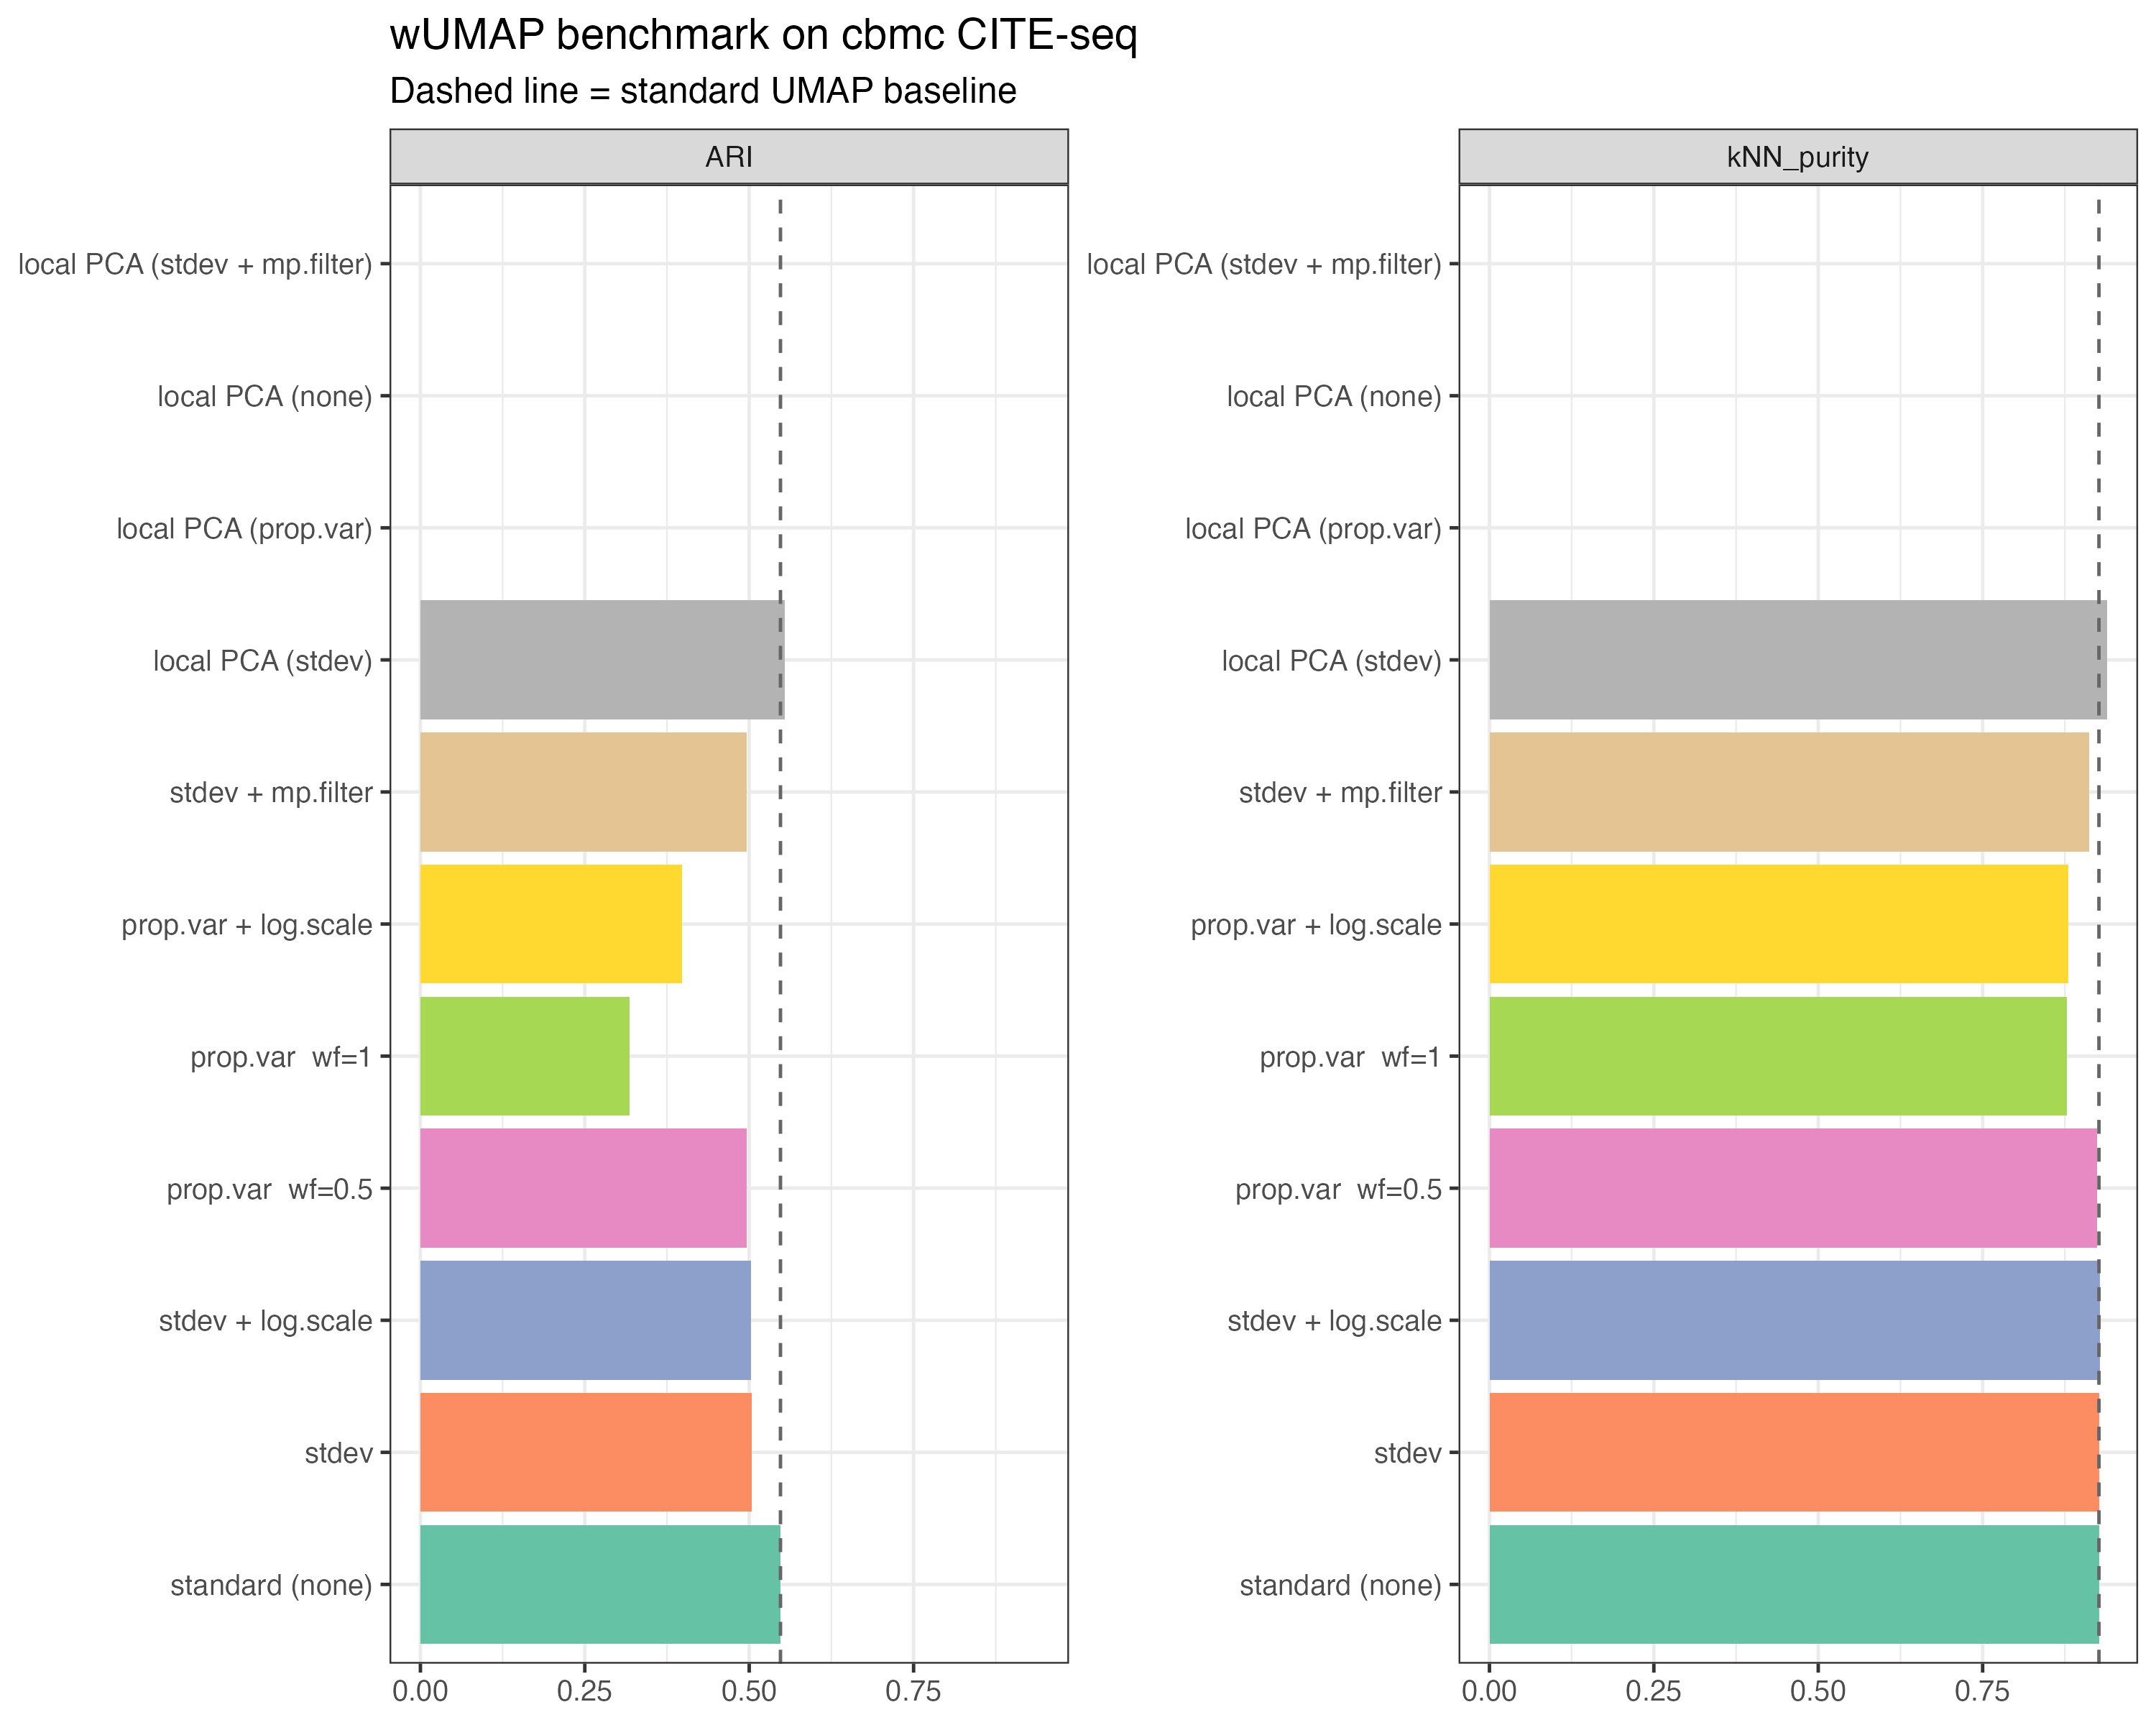
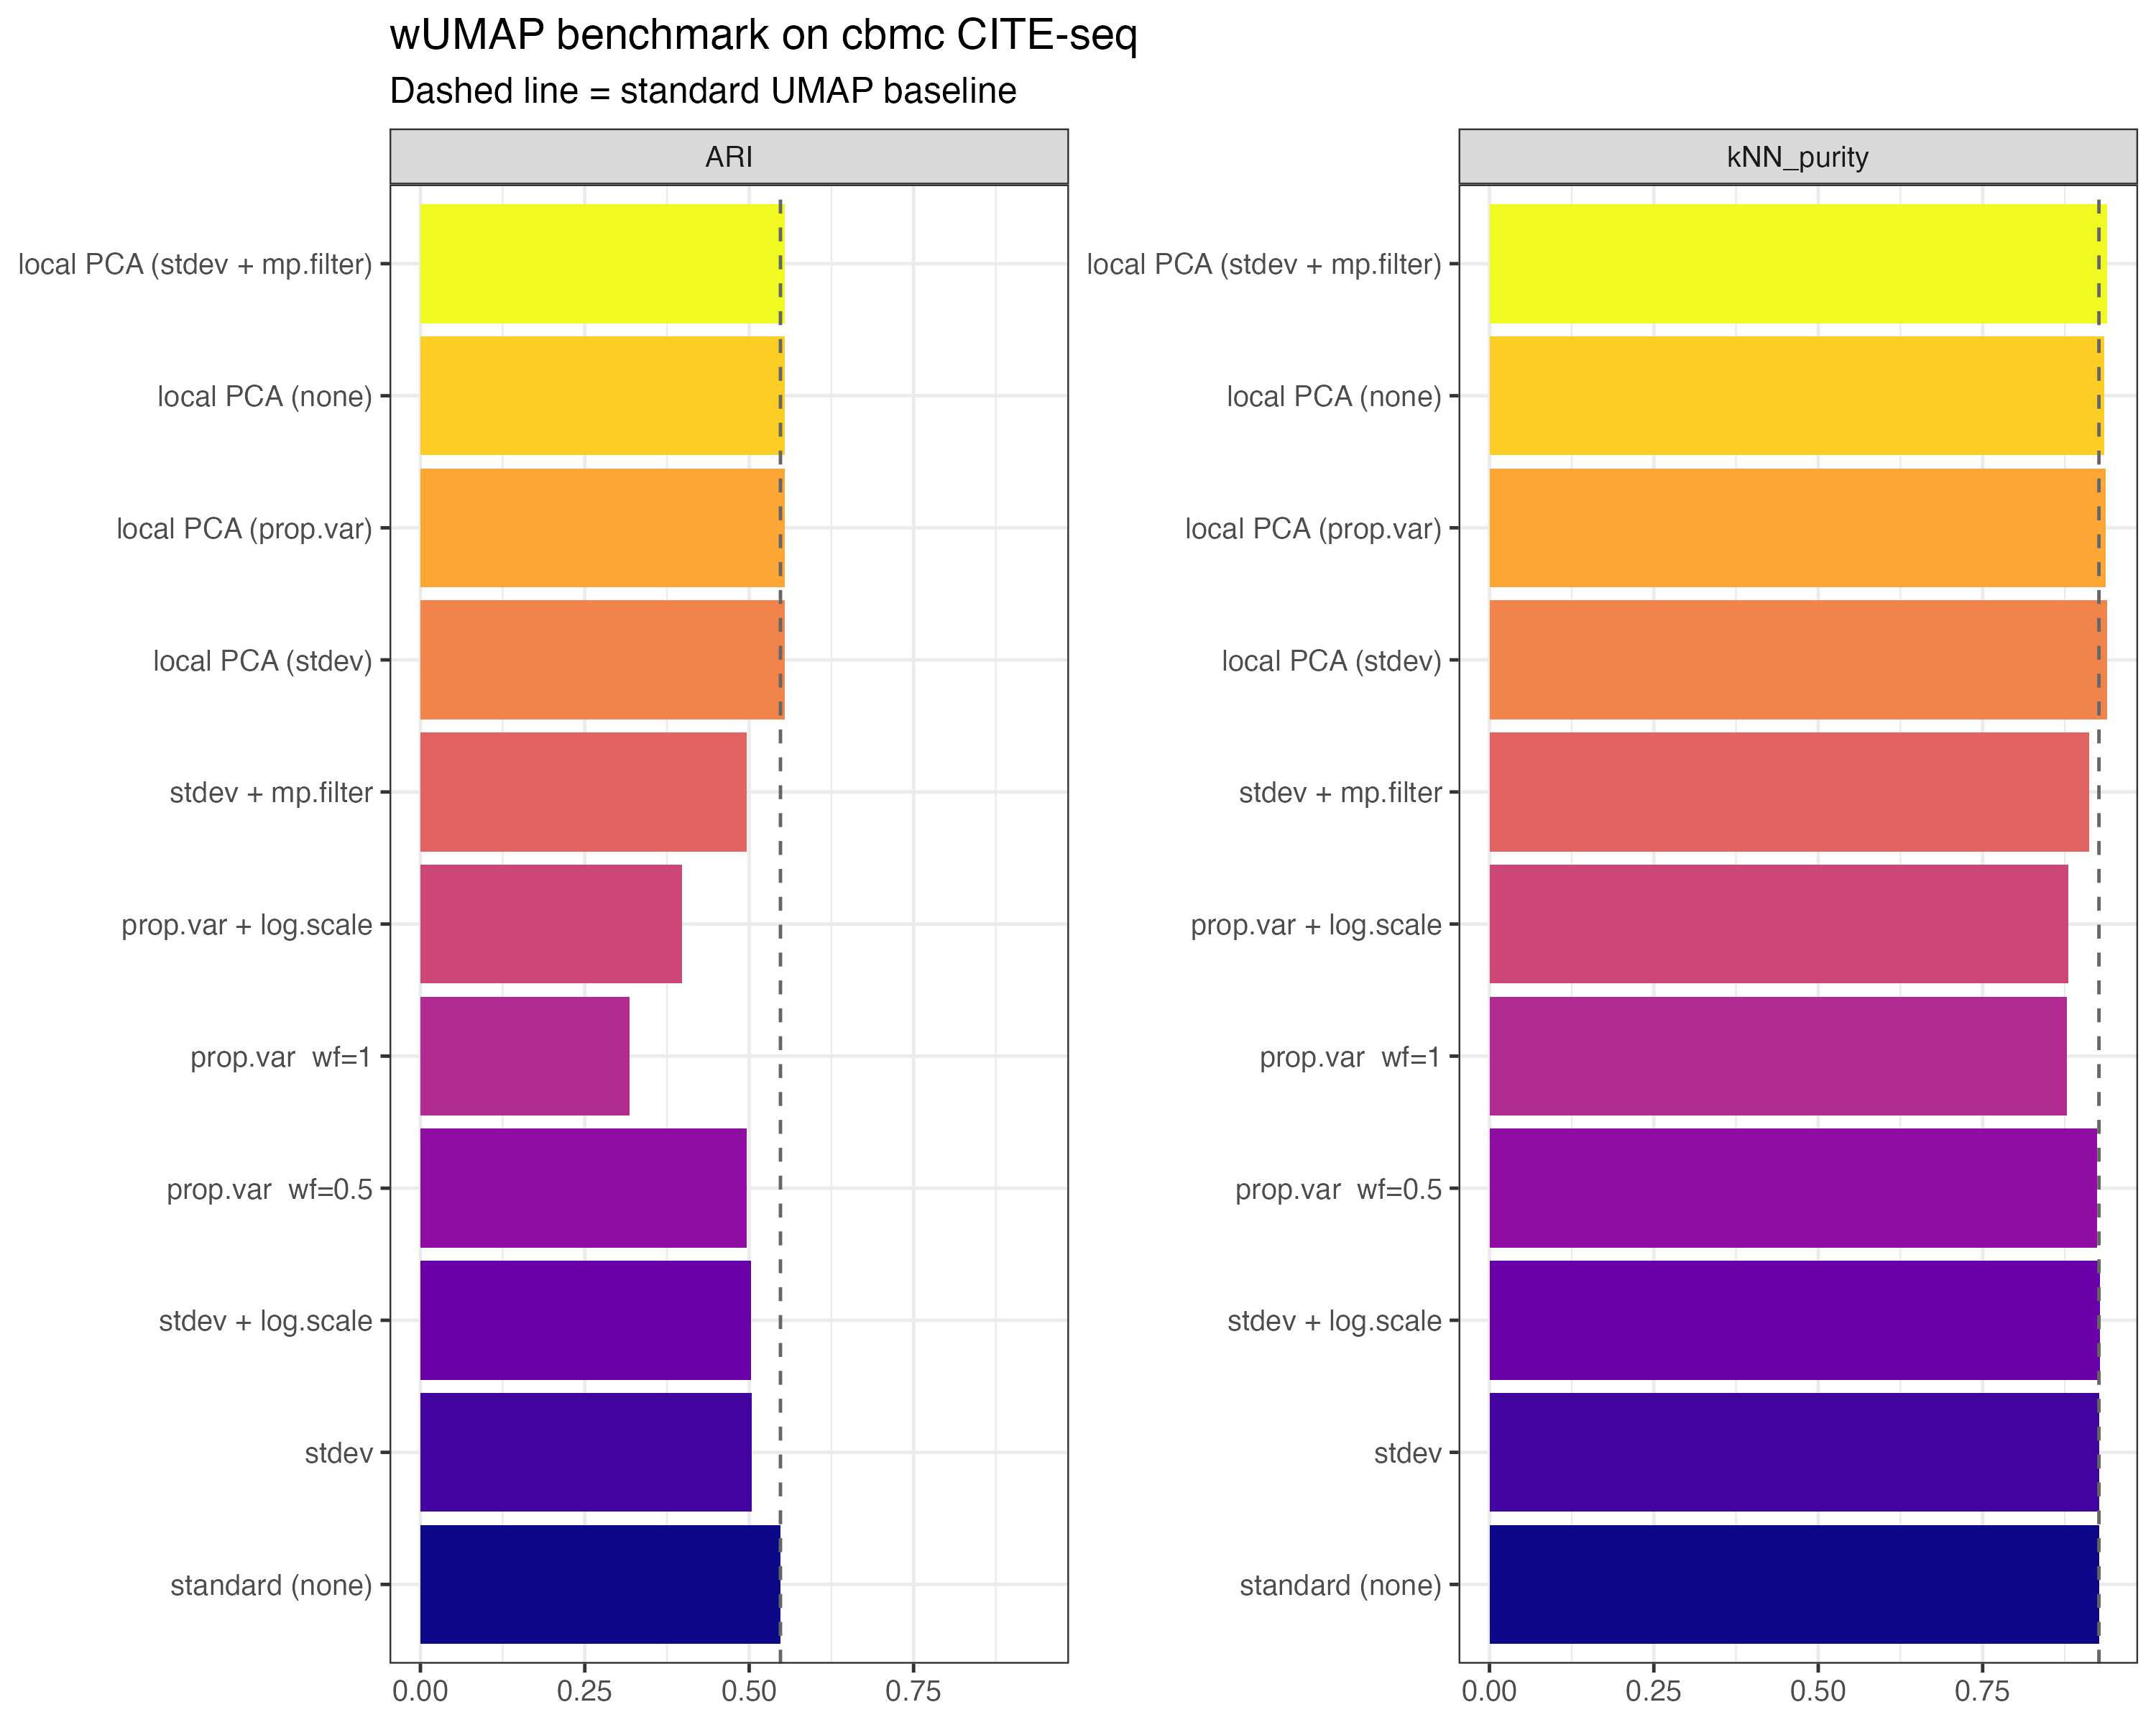
fixed graph

diff --git a/docs/articles/benchmark.html b/docs/articles/benchmark.html
@@ -761,7 +761,7 @@ parameter can be tuned in isolation.</p>
 <span>  <span class="fu"><a href="https://ggplot2.tidyverse.org/reference/geom_abline.html" class="external-link">geom_hline</a></span><span class="op">(</span>data <span class="op">=</span> <span class="va">baseline</span>, <span class="fu"><a href="https://ggplot2.tidyverse.org/reference/aes.html" class="external-link">aes</a></span><span class="op">(</span>yintercept <span class="op">=</span> <span class="va">Score</span><span class="op">)</span>,</span>
 <span>             linetype <span class="op">=</span> <span class="st">"dashed"</span>, colour <span class="op">=</span> <span class="st">"grey40"</span><span class="op">)</span> <span class="op">+</span></span>
 <span>  <span class="fu"><a href="https://ggplot2.tidyverse.org/reference/facet_wrap.html" class="external-link">facet_wrap</a></span><span class="op">(</span><span class="op">~</span><span class="va">Metric</span>, scales <span class="op">=</span> <span class="st">"free_y"</span><span class="op">)</span> <span class="op">+</span></span>
-<span>  <span class="fu"><a href="https://ggplot2.tidyverse.org/reference/scale_brewer.html" class="external-link">scale_fill_brewer</a></span><span class="op">(</span>palette <span class="op">=</span> <span class="st">"Set2"</span><span class="op">)</span> <span class="op">+</span></span>
+<span>  <span class="fu"><a href="https://ggplot2.tidyverse.org/reference/scale_viridis.html" class="external-link">scale_fill_viridis_d</a></span><span class="op">(</span>option <span class="op">=</span> <span class="st">"C"</span><span class="op">)</span> <span class="op">+</span></span>
 <span>  <span class="fu"><a href="https://ggplot2.tidyverse.org/reference/coord_flip.html" class="external-link">coord_flip</a></span><span class="op">(</span><span class="op">)</span> <span class="op">+</span></span>
 <span>  <span class="fu"><a href="https://ggplot2.tidyverse.org/reference/labs.html" class="external-link">labs</a></span><span class="op">(</span>x <span class="op">=</span> <span class="cn">NULL</span>, y <span class="op">=</span> <span class="cn">NULL</span>,</span>
 <span>       title <span class="op">=</span> <span class="st">"wUMAP benchmark on cbmc CITE-seq"</span>,</span>
@@ -1042,21 +1042,21 @@ contains a developmental trajectory across worm embryo stages.</p>
 <span>                          reduction.name <span class="op">=</span> <span class="st">"umap.none"</span>,</span>
 <span>                          seed.use <span class="op">=</span> <span class="fl">42</span><span class="op">)</span></span>
 <span><span class="co">#&gt; [wUMAP] Using weighted embedding 'wt.none.pca' (6188 cells x 30 dims, k = 30)</span></span>
-<span><span class="co">#&gt; 10:31:05 UMAP embedding parameters a = 0.9922 b = 1.112</span></span>
-<span><span class="co">#&gt; 10:31:05 Read 6188 rows and found 30 numeric columns</span></span>
-<span><span class="co">#&gt; 10:31:05 Using Annoy for neighbor search, n_neighbors = 30</span></span>
-<span><span class="co">#&gt; 10:31:05 Building Annoy index with metric = euclidean, n_trees = 50</span></span>
+<span><span class="co">#&gt; 15:43:22 UMAP embedding parameters a = 0.9922 b = 1.112</span></span>
+<span><span class="co">#&gt; 15:43:22 Read 6188 rows and found 30 numeric columns</span></span>
+<span><span class="co">#&gt; 15:43:22 Using Annoy for neighbor search, n_neighbors = 30</span></span>
+<span><span class="co">#&gt; 15:43:22 Building Annoy index with metric = euclidean, n_trees = 50</span></span>
 <span><span class="co">#&gt; 0%   10   20   30   40   50   60   70   80   90   100%</span></span>
 <span><span class="co">#&gt; [----|----|----|----|----|----|----|----|----|----|</span></span>
 <span><span class="co">#&gt; **************************************************|</span></span>
-<span><span class="co">#&gt; 10:31:05 Writing NN index file to temp file /var/folders/b9/bldjd_1s567761v6zm1g7v380000gp/T//RtmpDOxCzM/file1287e8f5660d</span></span>
-<span><span class="co">#&gt; 10:31:05 Searching Annoy index using 4 threads, search_k = 3000</span></span>
-<span><span class="co">#&gt; 10:31:05 Annoy recall = 100%</span></span>
-<span><span class="co">#&gt; 10:31:05 Commencing smooth kNN distance calibration using 4 threads with target n_neighbors = 30</span></span>
-<span><span class="co">#&gt; 10:31:06 Initializing from normalized Laplacian + noise (using RSpectra)</span></span>
-<span><span class="co">#&gt; 10:31:06 Commencing optimization for 500 epochs, with 241652 positive edges</span></span>
-<span><span class="co">#&gt; 10:31:06 Using rng type: pcg</span></span>
-<span><span class="co">#&gt; 10:31:11 Optimization finished</span></span>
+<span><span class="co">#&gt; 15:43:22 Writing NN index file to temp file /var/folders/b9/bldjd_1s567761v6zm1g7v380000gp/T//RtmpgmqdmI/file16b1c67acde5c</span></span>
+<span><span class="co">#&gt; 15:43:22 Searching Annoy index using 4 threads, search_k = 3000</span></span>
+<span><span class="co">#&gt; 15:43:22 Annoy recall = 100%</span></span>
+<span><span class="co">#&gt; 15:43:22 Commencing smooth kNN distance calibration using 4 threads with target n_neighbors = 30</span></span>
+<span><span class="co">#&gt; 15:43:23 Initializing from normalized Laplacian + noise (using RSpectra)</span></span>
+<span><span class="co">#&gt; 15:43:23 Commencing optimization for 500 epochs, with 241652 positive edges</span></span>
+<span><span class="co">#&gt; 15:43:23 Using rng type: pcg</span></span>
+<span><span class="co">#&gt; 15:43:28 Optimization finished</span></span>
 <span><span class="co">#&gt; [wUMAP] Stored as reduction 'umap.none'. Access via Embeddings(object[['umap.none']]).</span></span></code></pre></div>
 </div>
 <div class="section level3">
@@ -1081,21 +1081,21 @@ contains a developmental trajectory across worm embryo stages.</p>
 <span>                          reduction.name <span class="op">=</span> <span class="st">"umap.stdev"</span>,</span>
 <span>                          seed.use <span class="op">=</span> <span class="fl">42</span><span class="op">)</span></span>
 <span><span class="co">#&gt; [wUMAP] Using weighted embedding 'wt.stdev.pca' (6188 cells x 30 dims, k = 30)</span></span>
-<span><span class="co">#&gt; 10:31:12 UMAP embedding parameters a = 0.9922 b = 1.112</span></span>
-<span><span class="co">#&gt; 10:31:12 Read 6188 rows and found 30 numeric columns</span></span>
-<span><span class="co">#&gt; 10:31:12 Using Annoy for neighbor search, n_neighbors = 30</span></span>
-<span><span class="co">#&gt; 10:31:12 Building Annoy index with metric = euclidean, n_trees = 50</span></span>
+<span><span class="co">#&gt; 15:43:29 UMAP embedding parameters a = 0.9922 b = 1.112</span></span>
+<span><span class="co">#&gt; 15:43:29 Read 6188 rows and found 30 numeric columns</span></span>
+<span><span class="co">#&gt; 15:43:29 Using Annoy for neighbor search, n_neighbors = 30</span></span>
+<span><span class="co">#&gt; 15:43:29 Building Annoy index with metric = euclidean, n_trees = 50</span></span>
 <span><span class="co">#&gt; 0%   10   20   30   40   50   60   70   80   90   100%</span></span>
 <span><span class="co">#&gt; [----|----|----|----|----|----|----|----|----|----|</span></span>
 <span><span class="co">#&gt; **************************************************|</span></span>
-<span><span class="co">#&gt; 10:31:12 Writing NN index file to temp file /var/folders/b9/bldjd_1s567761v6zm1g7v380000gp/T//RtmpDOxCzM/file1287e52a4247f</span></span>
-<span><span class="co">#&gt; 10:31:12 Searching Annoy index using 4 threads, search_k = 3000</span></span>
-<span><span class="co">#&gt; 10:31:12 Annoy recall = 100%</span></span>
-<span><span class="co">#&gt; 10:31:13 Commencing smooth kNN distance calibration using 4 threads with target n_neighbors = 30</span></span>
-<span><span class="co">#&gt; 10:31:13 Initializing from normalized Laplacian + noise (using RSpectra)</span></span>
-<span><span class="co">#&gt; 10:31:13 Commencing optimization for 500 epochs, with 233928 positive edges</span></span>
-<span><span class="co">#&gt; 10:31:13 Using rng type: pcg</span></span>
-<span><span class="co">#&gt; 10:31:18 Optimization finished</span></span>
+<span><span class="co">#&gt; 15:43:29 Writing NN index file to temp file /var/folders/b9/bldjd_1s567761v6zm1g7v380000gp/T//RtmpgmqdmI/file16b1c4908b7e7</span></span>
+<span><span class="co">#&gt; 15:43:29 Searching Annoy index using 4 threads, search_k = 3000</span></span>
+<span><span class="co">#&gt; 15:43:29 Annoy recall = 100%</span></span>
+<span><span class="co">#&gt; 15:43:30 Commencing smooth kNN distance calibration using 4 threads with target n_neighbors = 30</span></span>
+<span><span class="co">#&gt; 15:43:30 Initializing from normalized Laplacian + noise (using RSpectra)</span></span>
+<span><span class="co">#&gt; 15:43:30 Commencing optimization for 500 epochs, with 233928 positive edges</span></span>
+<span><span class="co">#&gt; 15:43:30 Using rng type: pcg</span></span>
+<span><span class="co">#&gt; 15:43:35 Optimization finished</span></span>
 <span><span class="co">#&gt; Warning: Key 'wtUMAP_' taken, using 'umapstdev_' instead</span></span>
 <span><span class="co">#&gt; [wUMAP] Stored as reduction 'umap.stdev'. Access via Embeddings(object[['umap.stdev']]).</span></span></code></pre></div>
 </div>
@@ -1123,12 +1123,12 @@ contains a developmental trajectory across worm embryo stages.</p>
 <span><span class="co">#&gt; [wUMAP] Step 1: finding global k-NN ...</span></span>
 <span><span class="co">#&gt; [wUMAP] Step 2: computing local PCA distances ...</span></span>
 <span><span class="co">#&gt; [wUMAP] Step 3/3: running UMAP on local PCA graph ...</span></span>
-<span><span class="co">#&gt; 10:31:23 UMAP embedding parameters a = 0.9922 b = 1.112</span></span>
-<span><span class="co">#&gt; 10:31:24 Commencing smooth kNN distance calibration using 4 threads with target n_neighbors = 30</span></span>
-<span><span class="co">#&gt; 10:31:24 Initializing from normalized Laplacian + noise (using RSpectra)</span></span>
-<span><span class="co">#&gt; 10:31:24 Commencing optimization for 500 epochs, with 250568 positive edges</span></span>
-<span><span class="co">#&gt; 10:31:24 Using rng type: pcg</span></span>
-<span><span class="co">#&gt; 10:31:30 Optimization finished</span></span>
+<span><span class="co">#&gt; 15:43:40 UMAP embedding parameters a = 0.9922 b = 1.112</span></span>
+<span><span class="co">#&gt; 15:43:40 Commencing smooth kNN distance calibration using 4 threads with target n_neighbors = 30</span></span>
+<span><span class="co">#&gt; 15:43:41 Initializing from normalized Laplacian + noise (using RSpectra)</span></span>
+<span><span class="co">#&gt; 15:43:41 Commencing optimization for 500 epochs, with 250568 positive edges</span></span>
+<span><span class="co">#&gt; 15:43:41 Using rng type: pcg</span></span>
+<span><span class="co">#&gt; 15:43:47 Optimization finished</span></span>
 <span><span class="co">#&gt; [wUMAP] Stored as reduction 'umap.lp.none'.</span></span>
 <span></span>
 <span><span class="va">embryo</span> <span class="op">&lt;-</span> <span class="fu"><a href="../reference/RunLocalPCANeighbors.html">RunLocalPCANeighbors</a></span><span class="op">(</span><span class="va">embryo</span>, dims <span class="op">=</span> <span class="fl">1</span><span class="op">:</span><span class="fl">30</span>, k.param <span class="op">=</span> <span class="fl">30</span>,</span>
@@ -1151,13 +1151,13 @@ contains a developmental trajectory across worm embryo stages.</p>
 <span><span class="co">#&gt; [wUMAP] Step 1: finding global k-NN ...</span></span>
 <span><span class="co">#&gt; [wUMAP] Step 2: computing local PCA distances ...</span></span>
 <span><span class="co">#&gt; [wUMAP] Step 3/3: running UMAP on local PCA graph ...</span></span>
-<span><span class="co">#&gt; 10:31:35 UMAP embedding parameters a = 0.9922 b = 1.112</span></span>
-<span><span class="co">#&gt; 10:31:35 Commencing smooth kNN distance calibration using 4 threads with target n_neighbors = 30</span></span>
-<span><span class="co">#&gt; 10:31:35 446 smooth knn distance failures</span></span>
-<span><span class="co">#&gt; 10:31:36 Initializing from normalized Laplacian + noise (using RSpectra)</span></span>
-<span><span class="co">#&gt; 10:31:36 Commencing optimization for 500 epochs, with 231866 positive edges</span></span>
-<span><span class="co">#&gt; 10:31:36 Using rng type: pcg</span></span>
-<span><span class="co">#&gt; 10:31:42 Optimization finished</span></span>
+<span><span class="co">#&gt; 15:43:52 UMAP embedding parameters a = 0.9922 b = 1.112</span></span>
+<span><span class="co">#&gt; 15:43:52 Commencing smooth kNN distance calibration using 4 threads with target n_neighbors = 30</span></span>
+<span><span class="co">#&gt; 15:43:52 446 smooth knn distance failures</span></span>
+<span><span class="co">#&gt; 15:43:52 Initializing from normalized Laplacian + noise (using RSpectra)</span></span>
+<span><span class="co">#&gt; 15:43:52 Commencing optimization for 500 epochs, with 231866 positive edges</span></span>
+<span><span class="co">#&gt; 15:43:52 Using rng type: pcg</span></span>
+<span><span class="co">#&gt; 15:43:58 Optimization finished</span></span>
 <span><span class="co">#&gt; Warning: Key 'lpUMAP_' taken, using 'umaplpstdev_' instead</span></span>
 <span><span class="co">#&gt; [wUMAP] Stored as reduction 'umap.lp.stdev'.</span></span></code></pre></div>
 </div>